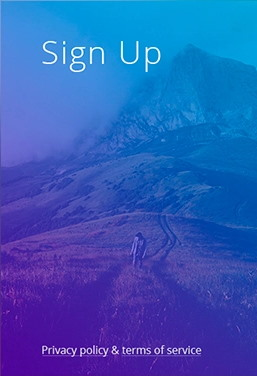
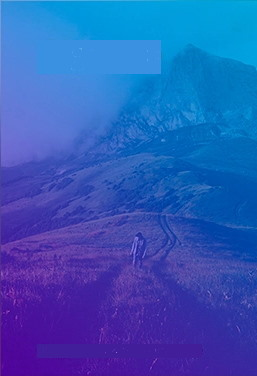
maybe final

Changed region(s): [[0.1556, 0.0878, 0.6537, 0.2048], [0.1556, 0.9069, 0.7782, 0.9654]]

diff --git a/4-Singup/css/main.css b/4-Singup/css/main.css
@@ -1,50 +1,66 @@
 body{ 
-    background-color: cornflowerblue; 
+ background-color: #44b2c8;   
+}
+
+.background{
+    display: inline-block;
+    width: 100%;
+    height: 100vh;
+    background-image: url(../background.jpg);
+    background-size: cover;
+    background-position: center; 
+    filter: blur(25px);
 }
 
 .container {
     display: inline-block;
     width: 800px;
-    margin-top: 10px;
-    margin-left: calc(50% - 400px);
+    position: absolute;
+    top: 50%;
+    left: 50%;
+    transform:translate(-50%, -50%);
 }
+
  .left-column{
-    display: inline-block;
-    box-sizing: border-box;
     width: 40%;
-    float: left;
     background-color:#5780D9 ;
     background-image: url(../background.jpg);
     background-repeat: no-repeat;
     background-size: cover;
-    background-position: top left;
+    background-position: center;
     color: cornsilk;
-    padding: 10px;
-    padding-bottom: 10px;
+    position:absolute;
+    padding: 40px;
+    padding-bottom: 20px;
+    top: 30px;
+    bottom: 30px;
 }
-a{ 
-    color: cornsilk;
-    text-decoration: none;
 
+.bottom-texts {
+position: absolute;
+bottom: 20px;
+left: 40px;
+right: 40px;
+}
+
+.bottom-texts>a {
+    color: #fff;
 }
 
 .right-column {
-    display: inline-block;
-    float: left;
+    float: right;
     width: 60%;
     font-weight: bold;
     background-color: #fff;
     padding: 60px;
-    padding-bottom: 20px;
+    position: relative;
 }
 .close {
        height: 60px;
        width: 60px;
-       margin-left: 360px;
-       margin-top: -60px;
-       position:absolute;
-       cursor: pointer;
-    
-      
-        
+       text-align: center;
+       line-height: 60px;
+        top:0;
+        right: 0;
+       position:absolute;    
 }

diff --git a/4-Singup/css/form.css b/4-Singup/css/form.css
@@ -7,11 +7,12 @@ form> .form-row > {
     width: 100%;
     margin-top: 30px;
 }
-form> .form-row:nth-child(1) {
-    margin-top: 0;
+form> .form-row:last-of-type {
+    margin-bottom: 0;
 }
 
 form> .form-row > label {
+    display: inline-block;
     width: 100%;
     font-size: 15px;
     margin-bottom: 5px;
@@ -22,15 +23,21 @@ form> .form-row > label {
 form> .form-row > input {
     display: inline-block;
     width: 100%;
-    font-size: 15px;
+    font-size: 20px;
     line-height: 30px;
     border: none;
-    border-bottom: 2px solid #ccc;
+    border-bottom: 1px solid #ccc;
 }
-
+form> .form-row > input:focus-visible {
+    outline: 2px solid #777;
+}
+::placeholder{
+    font-style: italic;
+    color: #777;
+}
 form> .form-row > button {
-    font-size: 15px;
-    line-height: 15px;
+    font-size: 20px;
+    line-height: 26px;
     text-transform: capitalize;
     padding: 5px;
     padding-left: 30px;
@@ -42,6 +49,8 @@ form> .form-row > button {
 }
 form> .form-row > button:hover {
     cursor:pionter;
+    background: #0265de;
+    background: linear-gradient(53deg, #0265de 0%, #2348d4 100%);
 }
 
 form> .form-row > span {
@@ -57,6 +66,8 @@ form> .form-row > a {
     padding: 5px;
     text-decoration: none;
     color: #005dd8;
+    font-weight: bold;
+    font-size: 17px;
 }
 
 form> .form-row > a:hover {

diff --git a/4-Singup/index.html b/4-Singup/index.html
@@ -10,10 +10,11 @@
     <link rel="stylesheet" href="./css/form.css">
 </head>
 <body>
+    <div class="background"></div>
     <main class="container">
         <div class="left-column">
             <h1>Sign up</h1>
-            <div class="left-column">
+            <div class="bottom-texts">
                 <a href="#">Privacy policy</a>
                <span>&amp;</span>
                 <a href="#"> terms of service</a>

diff --git a/4-Singup/css/button.css b/4-Singup/css/button.css
@@ -8,4 +8,7 @@
   text-decoration: none;
   display: inline-block;
   font-size: 16px;
+  position: absolute;
+  bottom: 20px;
+  
     }
